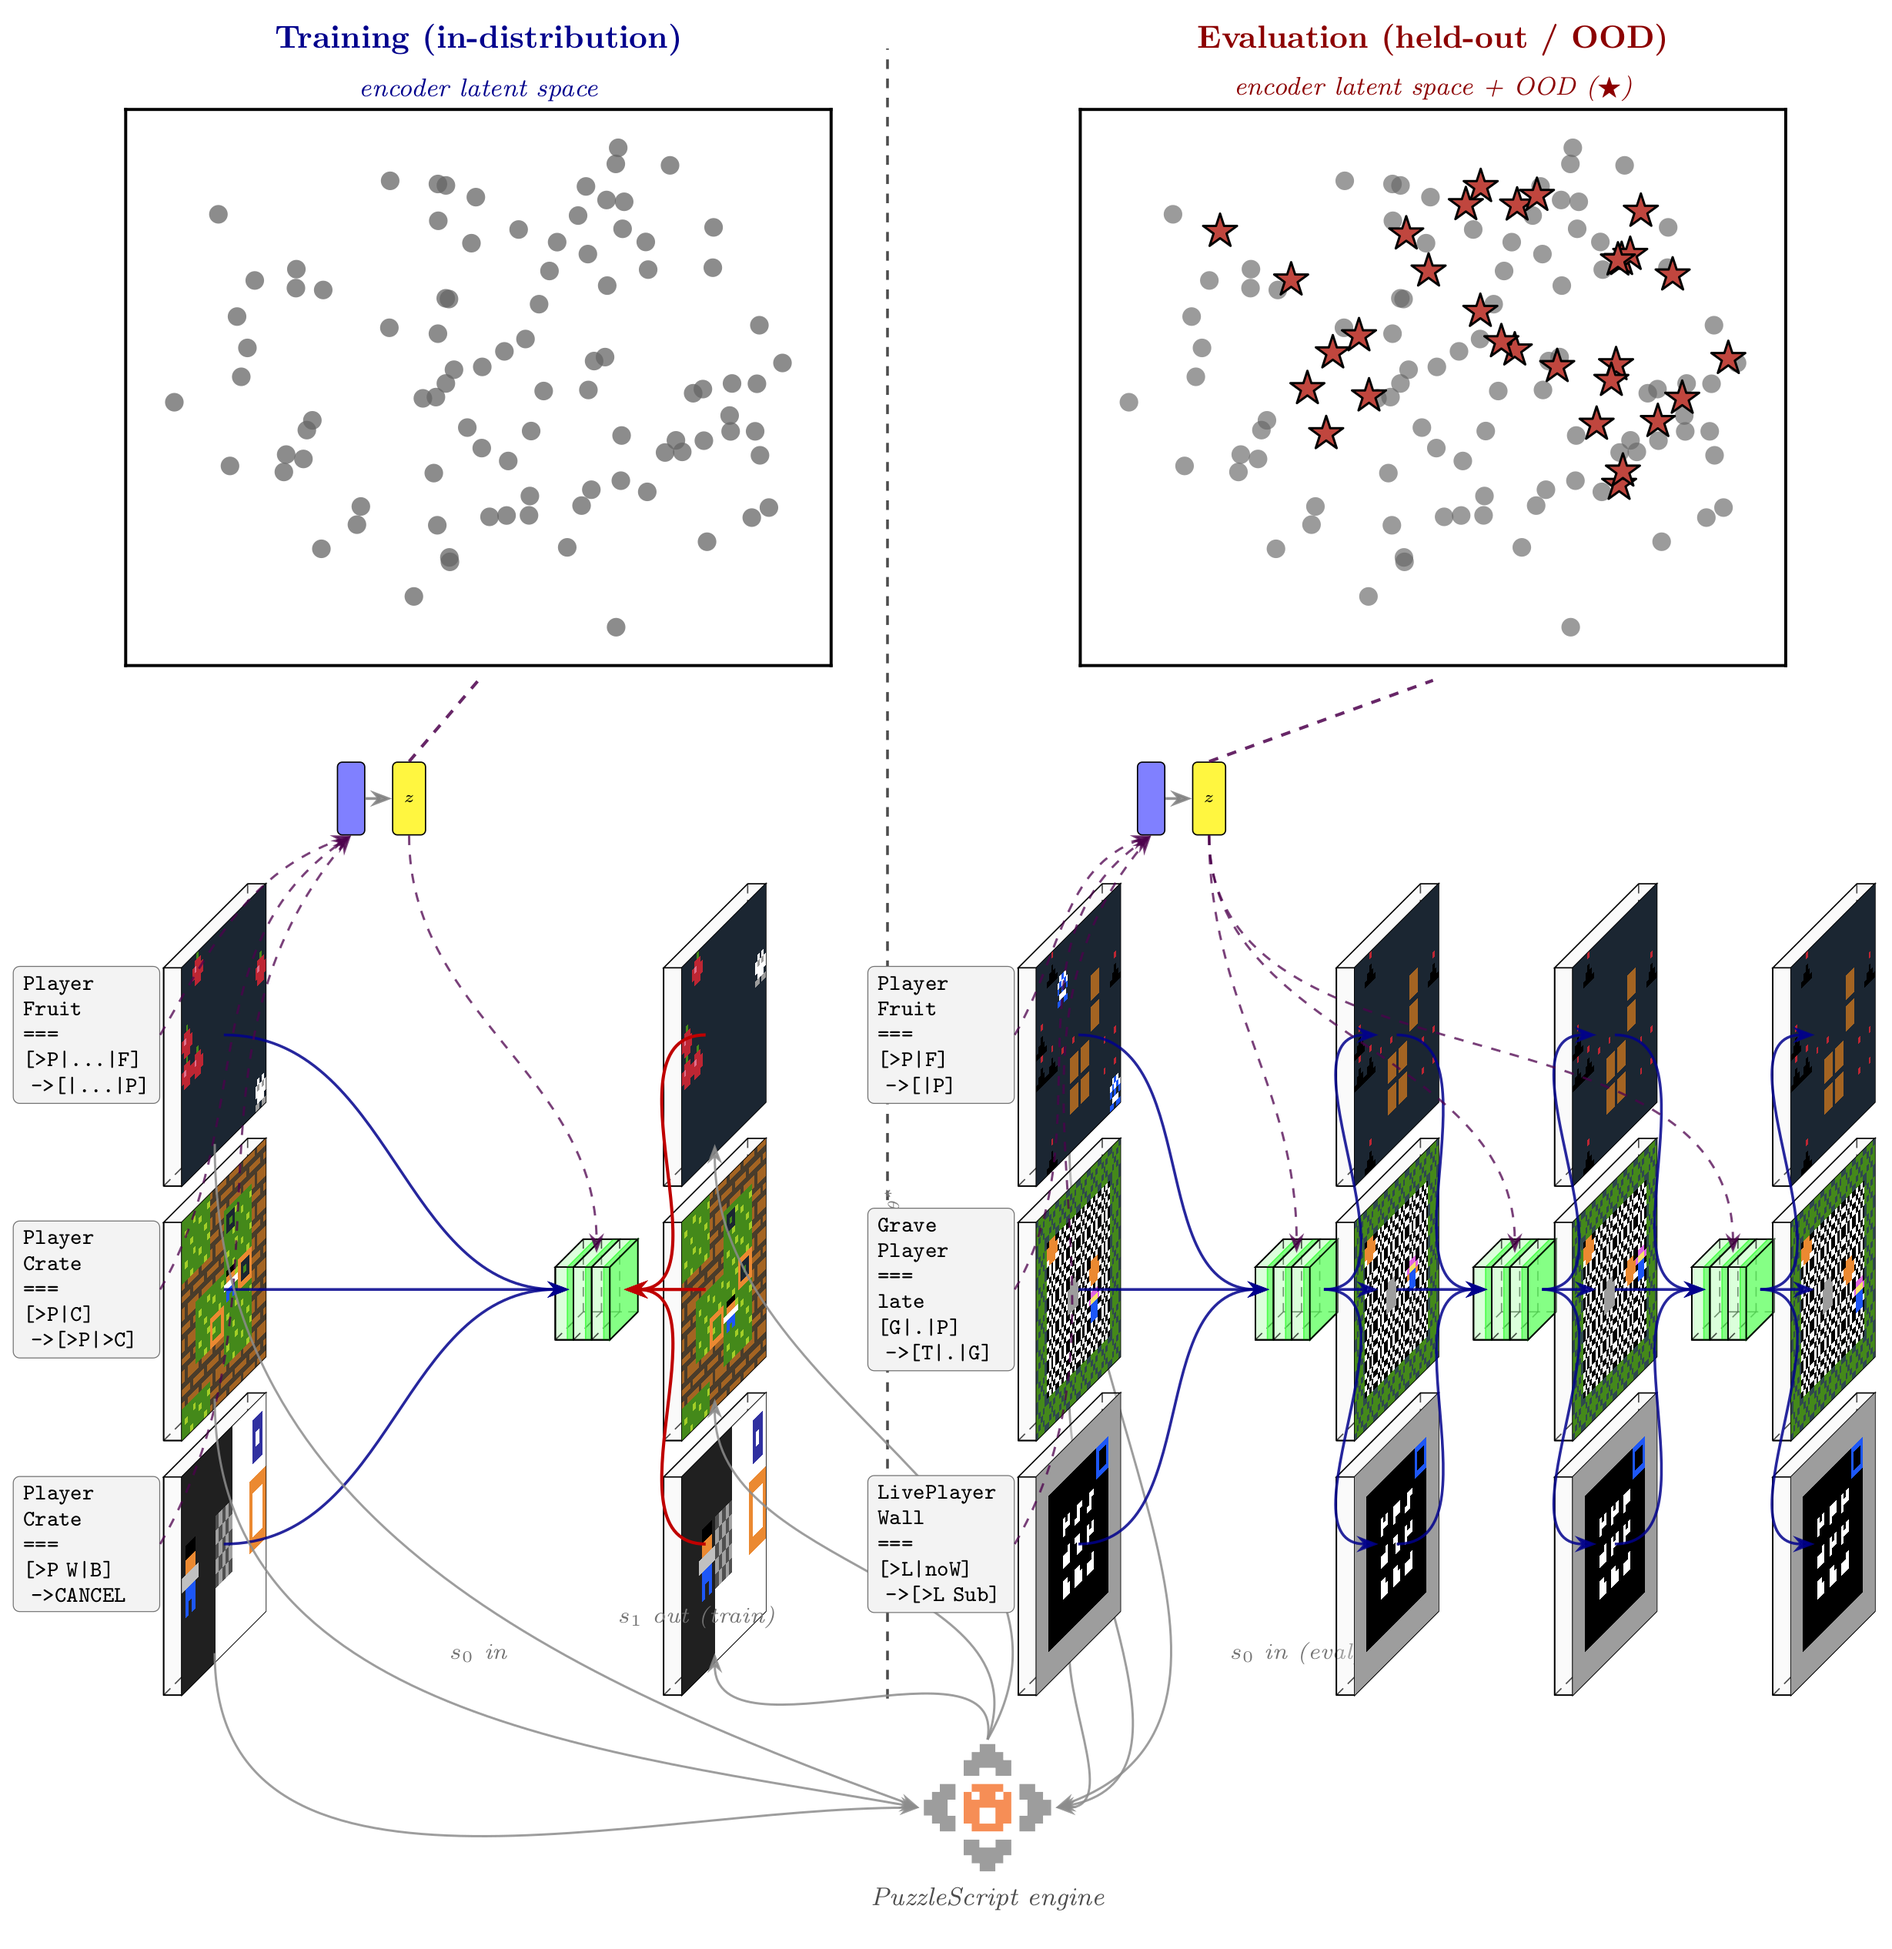
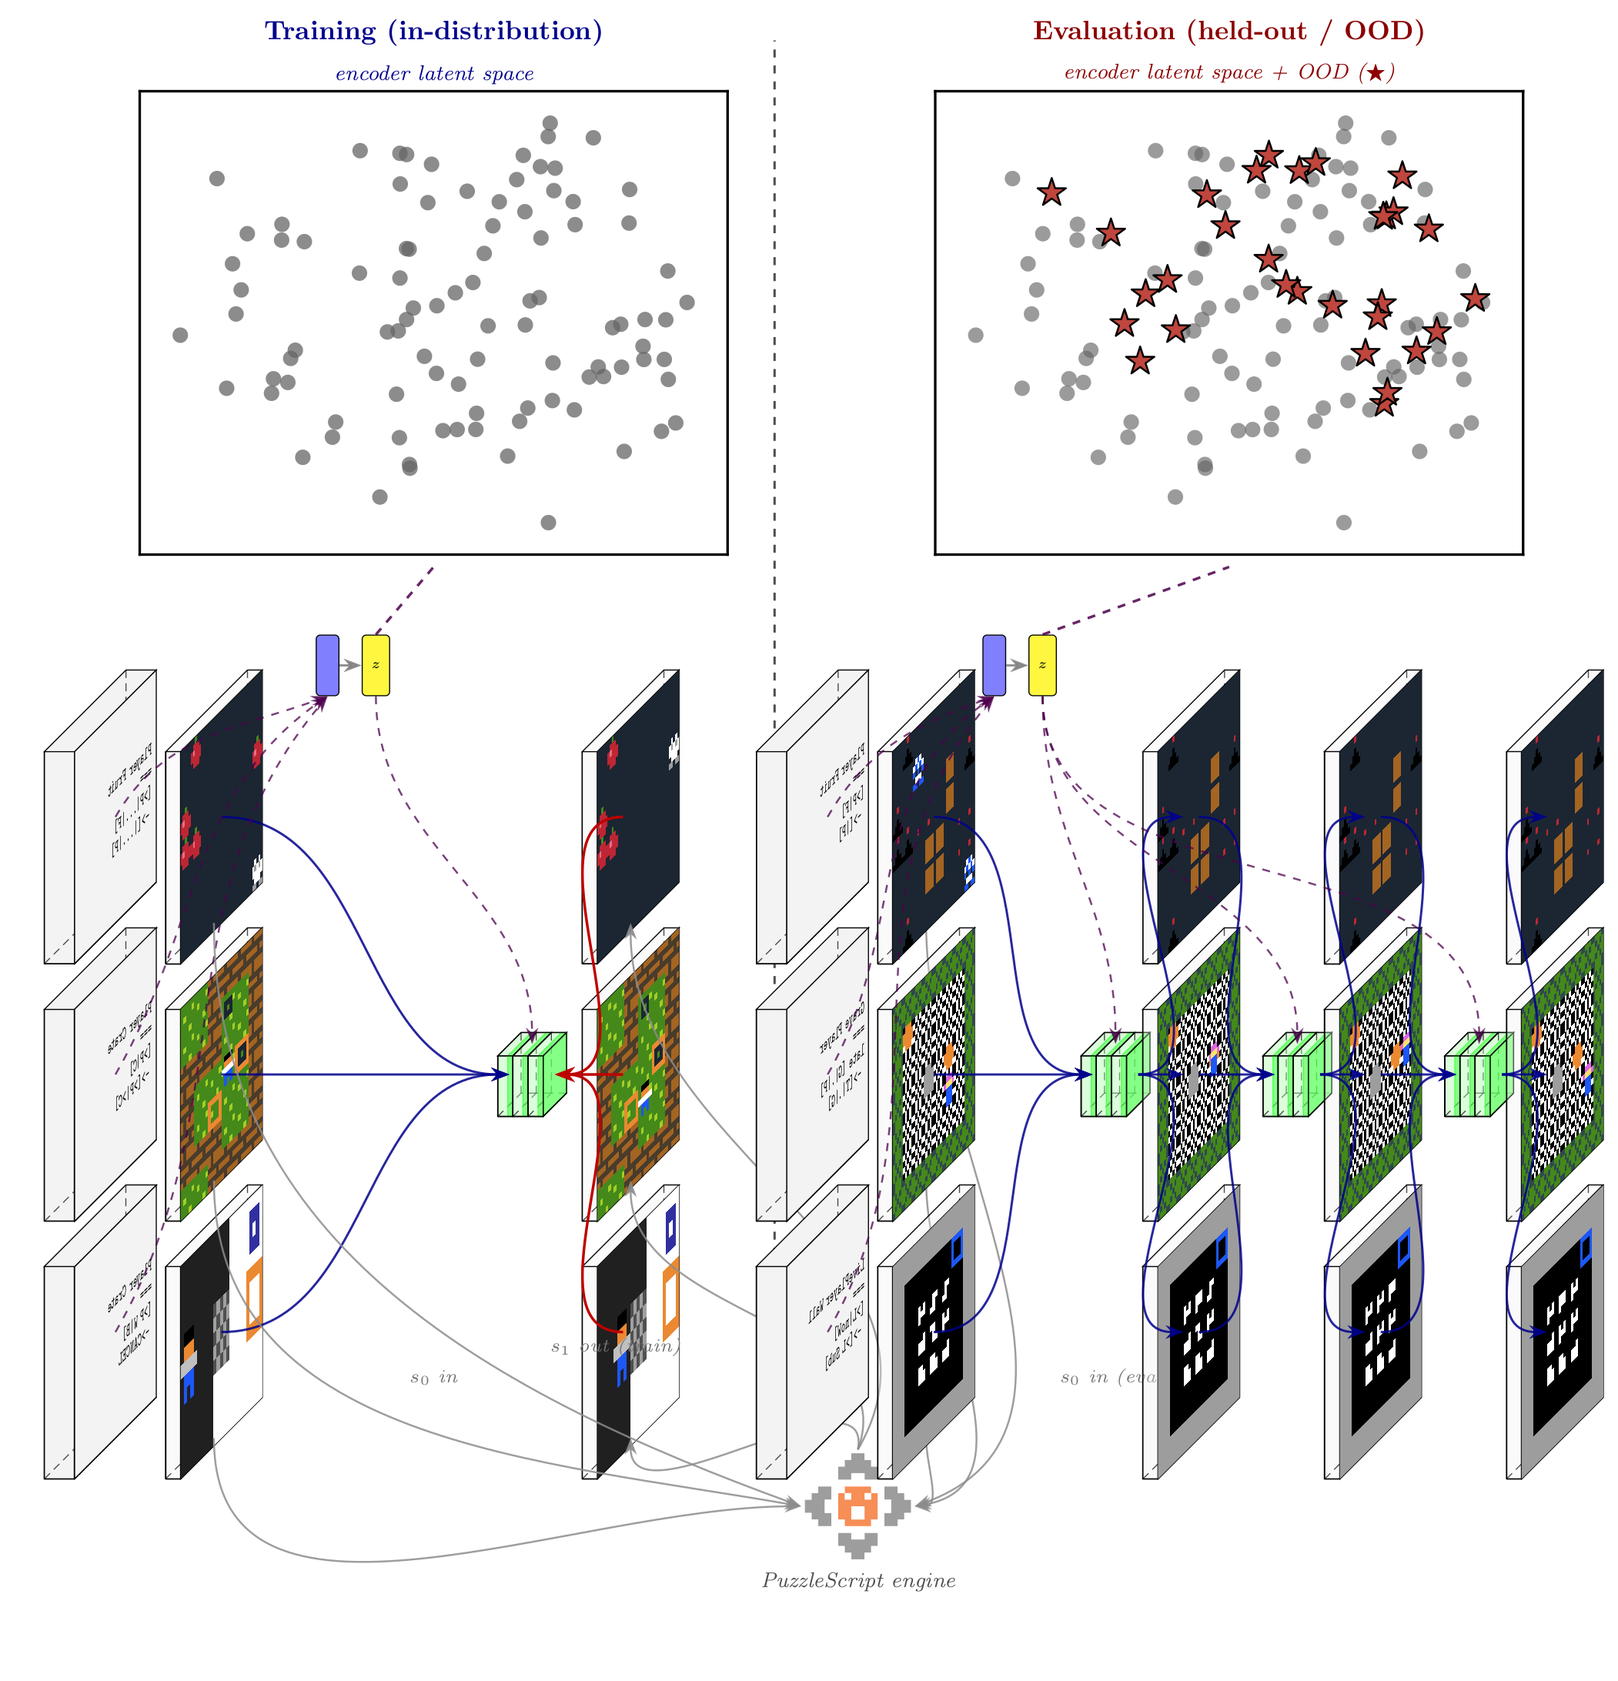
Paper: code spec boxes back to 3D iso-projected; states a tad bigger
- Code spec is once again a 3D Box pic (height/depth=14, width=2),
  matching the state cards' iso style. Code text is projected on
  its east face via canvas-is-zy-plane (\scriptsize ttfamily, black,
  light-gray fill) so the spec card reads as a paired companion to
  the state card rather than a flat 2D label.
- State frames bumped from height/depth=12 (2.4 cm visible) to 14
  (2.8 cm). Image scaled to match.
- Row centers spread from y=±2.8 to y=±3.4 so the bigger card pairs
  don't overlap.
- s_0 / s_1 hardcoded south coords (engine arrow targets) updated
  for the new state-box footprint (y_state - 1.4).
- Code-box anchor refs in the code→encoder arrows reverted from the
  2D node syntax (.east) back to the pic anchor syntax (-east).

diff --git a/nca_wm/paper/figures/id_ood_teaser/teaser.tex b/nca_wm/paper/figures/id_ood_teaser/teaser.tex
@@ -38,37 +38,44 @@
 \colorlet{LossColor}{red!75!black}
 \colorlet{CondColor}{violet!60!black}
 
-% --- PS state frame (transparent), scaled up to 2.4×2.4 cm visible. ---
+% --- PS state frame (transparent), scaled up to 2.8×2.8 cm visible. ---
 \newcommand{\PSframe}[4]{%
   \pic[shift={(#2, #3, 0)}] at (0,0,0)
       {Box={name=#1, caption=, xlabel={{,}}, zlabel={},
             fill=PSFrameFill, opacity=0.35,
-            height=12, width=1.0, depth=12}};%
+            height=14, width=1.0, depth=14}};%
   \node[canvas is zy plane at x={#2 + 0.2}] at (0, #3)
-      {\includegraphics[width=2.4cm,height=2.4cm]{#4}};%
+      {\includegraphics[width=2.8cm,height=2.8cm]{#4}};%
 }
 
-% --- Decoupled card pair: a flat 2D code/spec node LEFT of a 3D
-%     transparent state box, with visible space between them. The
-%     code spec is rendered exactly like the game-spec node in
-%     nca_arch_v1.tex — light-gray fill, black ttfamily text, left
-%     aligned in a 2D rectangle.
+% --- Decoupled card pair: a 3D code/spec Box LEFT of a 3D state
+%     Box, both projected with the same iso style so the code reads
+%     as a "card" matching the state cards. Code text is small black
+%     ttfamily projected on the code box's east face (left-aligned
+%     in a top-anchored text node so it reads top-to-bottom rather
+%     than centered on the face).
 %
 %     #1 = name base, #2 = state x, #3 = y,
 %     #4 = state image path, #5 = code/spec text body
 \newcommand{\StateOnCode}[5]{%
-  \node[draw=black!55, rounded corners=2pt, fill=CodeFill,
-        line width=0.3pt, font=\scriptsize\ttfamily, align=left,
-        inner sep=3pt, text width=1.4cm, text=black,
-        anchor=east, name=#1c]
-        at ({#2 - 0.5}, #3) {#5};%
+  % Code spec box: solid light gray (matches nca_arch_v1.tex spec
+  % node fill), same height/depth as the state card so they look
+  % like a paired set.
+  \pic[shift={({#2 - 1.6}, #3, 0)}] at (0,0,0)
+      {Box={name=#1c, caption=, xlabel={{,}}, zlabel={},
+            fill=CodeFill, opacity=1.0,
+            height=14, width=2.0, depth=14}};%
+  \node[canvas is zy plane at x={#2 - 1.2}, font=\scriptsize\ttfamily,
+        align=left, inner sep=3pt, text width=2.5cm,
+        text=black, anchor=center]
+        at (0, #3) {#5};%
   % State box (3D, transparent).
   \pic[shift={(#2, #3, 0)}] at (0,0,0)
       {Box={name=#1g, caption=, xlabel={{,}}, zlabel={},
             fill=PSFrameFill, opacity=0.35,
-            height=12, width=1.0, depth=12}};%
+            height=14, width=1.0, depth=14}};%
   \node[canvas is zy plane at x={#2 + 0.2}] at (0, #3)
-      {\includegraphics[width=2.4cm,height=2.4cm]{#4}};%
+      {\includegraphics[width=2.8cm,height=2.8cm]{#4}};%
 }
 
 % --- NCA "step": just the 3 green bands at (x, y).
@@ -107,11 +114,11 @@
 %  LEFT HALF: in-distribution training
 % =============================================================
 
-\StateOnCode{neko}{-7}{ 2.8}{rollouts/nekopuzzle/engine_t0.png}
+\StateOnCode{neko}{-7}{ 3.4}{rollouts/nekopuzzle/engine_t0.png}
     {\textbf{Player Fruit}\\===\\{}[\textbf{>P}|...|\textbf{F}]\\{}~->[|...|\textbf{P}]}
 \StateOnCode{soko}{-7}{ 0.0}{rollouts/sokoban_basic/engine_t0.png}
     {\textbf{Player Crate}\\===\\{}[\textbf{>P}|\textbf{C}]\\{}~->[\textbf{>P}|\textbf{>C}]}
-\StateOnCode{mod} {-7}{-2.8}{rollouts/Modality/engine_t0.png}
+\StateOnCode{mod} {-7}{-3.4}{rollouts/Modality/engine_t0.png}
     {\textbf{Player Crate}\\===\\{}[\textbf{>P W}|\textbf{B}]\\{}~->\textbf{CANCEL}}
 
 \EncLatent{id}{-5.4}{5.4}
@@ -119,9 +126,9 @@
 % Single ID NCA, vertically centered (y=0).
 \NCAstep{idn}{-3}{0}
 
-\PSframe{s1_neko}{-1.5}{ 2.8}{rollouts/nekopuzzle/engine_t1.png}
+\PSframe{s1_neko}{-1.5}{ 3.4}{rollouts/nekopuzzle/engine_t1.png}
 \PSframe{s1_soko}{-1.5}{ 0.0}{rollouts/sokoban_basic/engine_t1.png}
-\PSframe{s1_mod} {-1.5}{-2.8}{rollouts/Modality/engine_t1.png}
+\PSframe{s1_mod} {-1.5}{-3.4}{rollouts/Modality/engine_t1.png}
 
 % Forward (blue) state arrows: each row's state -> single NCA (fan-in,
 % curvy so the top/bottom rows arc into the NCA from above/below).
@@ -135,9 +142,9 @@
 \draw[lossarrow] (s1_mod-west)  to[out=180,in=  0] (nidn-east);
 
 % Code → encoder fan-in (upward to encoder above rows)
-\draw[condarrow] (nekoc.east) to[out= 60,in=200] (enc_id.south);
-\draw[condarrow] (sokoc.east) to[out= 60,in=215] (enc_id.south);
-\draw[condarrow] (modc.east)  to[out= 60,in=230] (enc_id.south);
+\draw[condarrow] (nekoc-east) to[out= 60,in=200] (enc_id.south);
+\draw[condarrow] (sokoc-east) to[out= 60,in=215] (enc_id.south);
+\draw[condarrow] (modc-east)  to[out= 60,in=230] (enc_id.south);
 
 % Latent z conditions the ID NCA
 \draw[condarrow] (slots_id.south) to[out=-90,in=90] (nidn-north);
@@ -178,13 +185,13 @@
 \tikzstyle{datafl}=[-Stealth, line width=0.25mm, color=black!45,
     opacity=0.85]
 
-% s_0 → engine (south of each state box; state height=12 ⇒ -1.2 from y).
-\coordinate (s0_neko_s) at (-6.9,  1.6);
-\coordinate (s0_soko_s) at (-6.9, -1.2);
-\coordinate (s0_mod_s)  at (-6.9, -4.0);
-\coordinate (s0_inway_s) at (2.5,  1.6);
-\coordinate (s0_nana_s)  at (2.5, -1.2);
-\coordinate (s0_ham_s)   at (2.5, -4.0);
+% s_0 → engine (south of each state box; state height=14 ⇒ -1.4 from y).
+\coordinate (s0_neko_s) at (-6.9,  2.0);
+\coordinate (s0_soko_s) at (-6.9, -1.4);
+\coordinate (s0_mod_s)  at (-6.9, -4.8);
+\coordinate (s0_inway_s) at (2.5,  2.0);
+\coordinate (s0_nana_s)  at (2.5, -1.4);
+\coordinate (s0_ham_s)   at (2.5, -4.8);
 \draw[datafl] (s0_neko_s)  to[out=-90,in=160] (engine.west);
 \draw[datafl] (s0_soko_s)  to[out=-90,in=170] (engine.west);
 \draw[datafl] (s0_mod_s)   to[out=-90,in=180] (engine.west);
@@ -193,9 +200,9 @@
 \draw[datafl] (s0_ham_s)   to[out=-90,in=  0] (engine.east);
 
 % engine → train s_1 (south of each train s_1 box)
-\coordinate (s1_neko_s) at (-1.4,  1.6);
-\coordinate (s1_soko_s) at (-1.4, -1.2);
-\coordinate (s1_mod_s)  at (-1.4, -4.0);
+\coordinate (s1_neko_s) at (-1.4,  2.0);
+\coordinate (s1_soko_s) at (-1.4, -1.4);
+\coordinate (s1_mod_s)  at (-1.4, -4.8);
 \draw[datafl] (engine.north) to[out= 60, in=-90] (s1_neko_s);
 \draw[datafl] (engine.north) to[out= 70, in=-90] (s1_soko_s);
 \draw[datafl] (engine.north) to[out= 80, in=-90] (s1_mod_s);
@@ -212,13 +219,13 @@
 %  RIGHT HALF: held-out eval — one NCA per TIMESTEP, all rows fan in
 % =============================================================
 
-\StateOnCode{inway}{ 2.4}{ 2.8}
+\StateOnCode{inway}{ 2.4}{ 3.4}
     {rollouts/in_the_way_by_giovanni_mota/pred_t0.png}
     {\textbf{Player Fruit}\\===\\{}[\textbf{>P}|\textbf{F}]\\{}~->[|\textbf{P}]}
 \StateOnCode{nana}{ 2.4}{ 0.0}
     {rollouts/my_nana_ate_my_kid_brother_by_ruth_williams/pred_t0.png}
     {\textbf{Grave Player}\\===\\\textbf{late} [\textbf{G}|.|\textbf{P}]\\{}~->[\textbf{T}|.|\textbf{G}]}
-\StateOnCode{ham}{ 2.4}{-2.8}
+\StateOnCode{ham}{ 2.4}{-3.4}
     {rollouts/Hamiltwo/pred_t0.png}
     {\textbf{LivePlayer Wall}\\===\\{}[\textbf{>L}|\textbf{noW}]\\{}~->[\textbf{>L Sub}]}
 
@@ -229,17 +236,17 @@
 \NCAstep{oodn2}{7.1}{0}
 \NCAstep{oodn3}{9.5}{0}
 
-\PSframe{h1_inway}{ 5.9}{ 2.8}{rollouts/in_the_way_by_giovanni_mota/pred_t1.png}
-\PSframe{h2_inway}{ 8.3}{ 2.8}{rollouts/in_the_way_by_giovanni_mota/pred_t2.png}
-\PSframe{h3_inway}{10.7}{ 2.8}{rollouts/in_the_way_by_giovanni_mota/pred_t3.png}
+\PSframe{h1_inway}{ 5.9}{ 3.4}{rollouts/in_the_way_by_giovanni_mota/pred_t1.png}
+\PSframe{h2_inway}{ 8.3}{ 3.4}{rollouts/in_the_way_by_giovanni_mota/pred_t2.png}
+\PSframe{h3_inway}{10.7}{ 3.4}{rollouts/in_the_way_by_giovanni_mota/pred_t3.png}
 
 \PSframe{h1_nana}{ 5.9}{ 0.0}{rollouts/my_nana_ate_my_kid_brother_by_ruth_williams/pred_t1.png}
 \PSframe{h2_nana}{ 8.3}{ 0.0}{rollouts/my_nana_ate_my_kid_brother_by_ruth_williams/pred_t2.png}
 \PSframe{h3_nana}{10.7}{ 0.0}{rollouts/my_nana_ate_my_kid_brother_by_ruth_williams/pred_t3.png}
 
-\PSframe{h1_ham}{ 5.9}{-2.8}{rollouts/Hamiltwo/pred_t1.png}
-\PSframe{h2_ham}{ 8.3}{-2.8}{rollouts/Hamiltwo/pred_t2.png}
-\PSframe{h3_ham}{10.7}{-2.8}{rollouts/Hamiltwo/pred_t3.png}
+\PSframe{h1_ham}{ 5.9}{-3.4}{rollouts/Hamiltwo/pred_t1.png}
+\PSframe{h2_ham}{ 8.3}{-3.4}{rollouts/Hamiltwo/pred_t2.png}
+\PSframe{h3_ham}{10.7}{-3.4}{rollouts/Hamiltwo/pred_t3.png}
 
 % Forward chain (BLUE everywhere in the eval part). Curvy fan-in /
 % fan-out around each NCA — each arrow uses to[out=0,in=180] so it
@@ -264,9 +271,9 @@
 \draw[arrow, color=IDColor] (noodn3-east)   to[out=0,in=180] (h3_ham-west);
 
 % Code → encoder
-\draw[condarrow] (inwayc.east) to[out= 60,in=200] (enc_ood.south);
-\draw[condarrow] (nanac.east)  to[out= 60,in=215] (enc_ood.south);
-\draw[condarrow] (hamc.east)   to[out= 60,in=230] (enc_ood.south);
+\draw[condarrow] (inwayc-east) to[out= 60,in=200] (enc_ood.south);
+\draw[condarrow] (nanac-east)  to[out= 60,in=215] (enc_ood.south);
+\draw[condarrow] (hamc-east)   to[out= 60,in=230] (enc_ood.south);
 
 % Latent z conditions every OOD NCA timestep
 \draw[condarrow] (slots_ood.south) to[out=-90,in=90] (noodn1-north);
